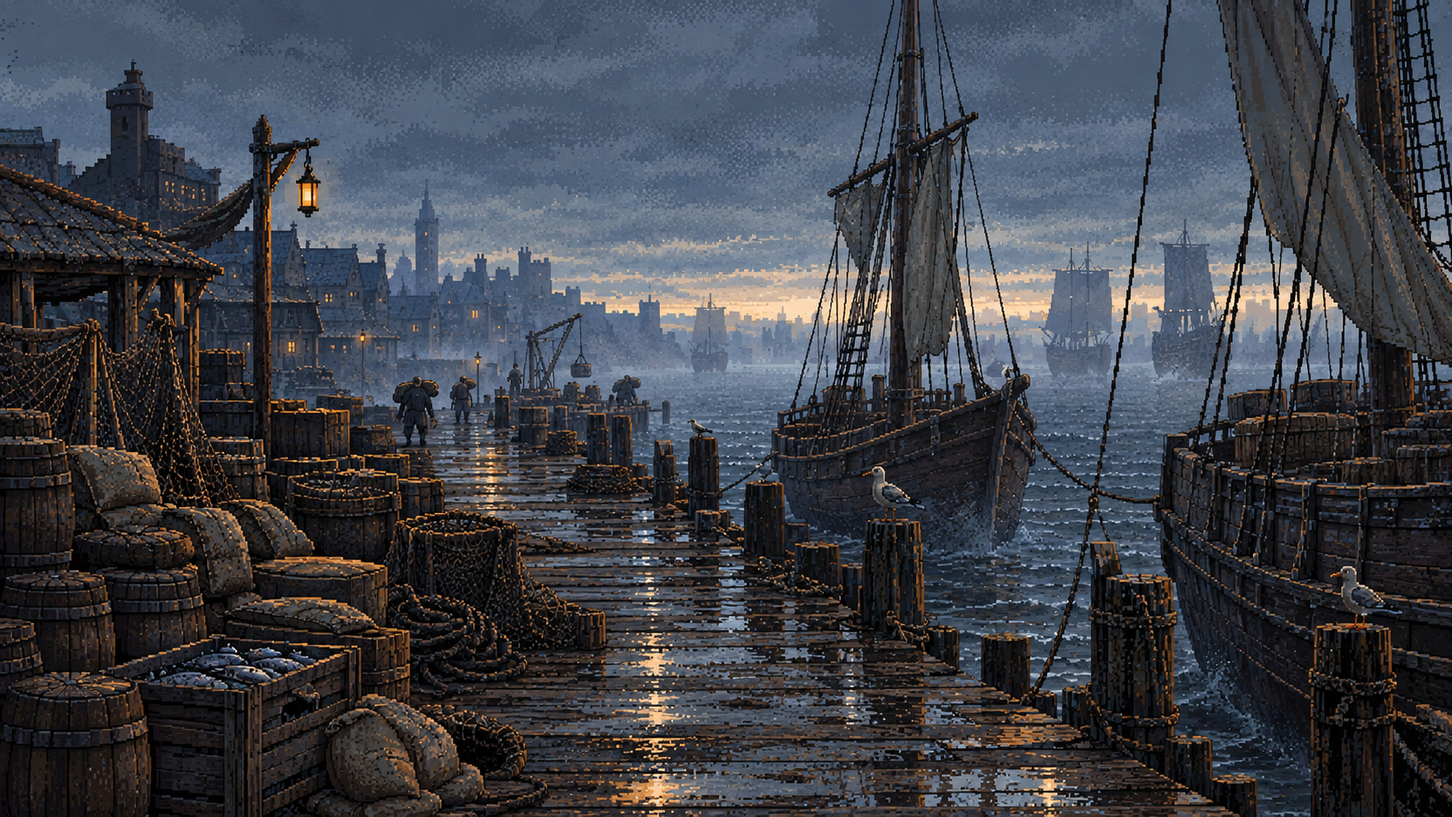
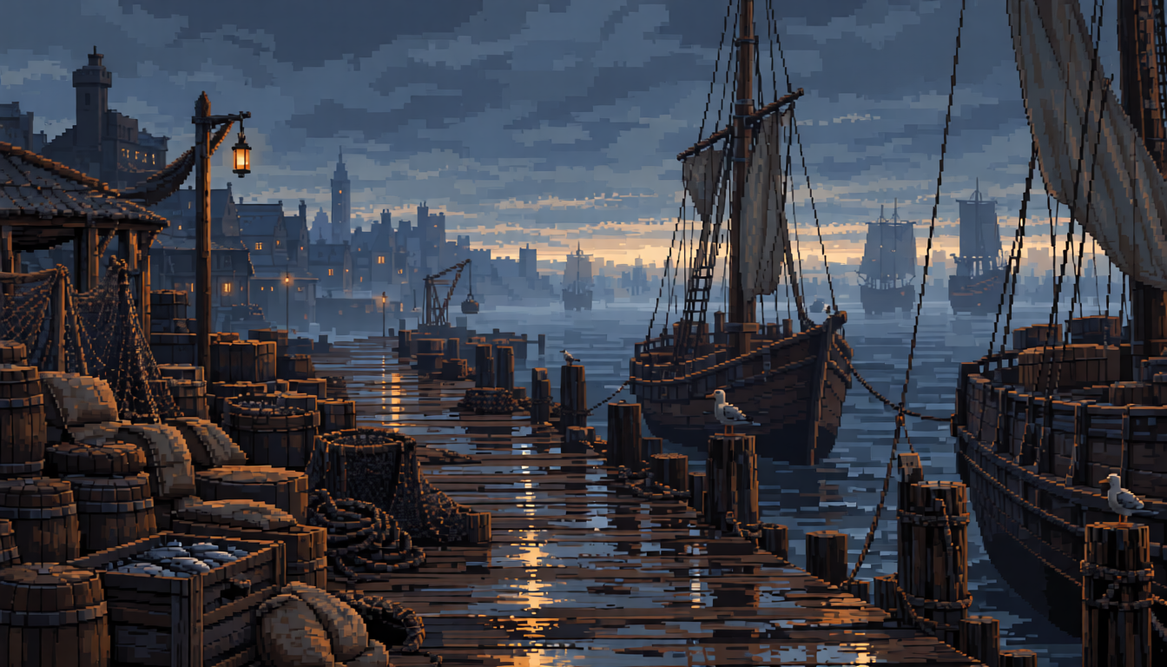
Add work illustrations and replace pier with author-selected artwork

diff --git a/Игры/Порт/Источники_Арта/Работы/галерея.html b/Игры/Порт/Источники_Арта/Работы/галерея.html
@@ -1,0 +1,1 @@
+<!doctype html><html lang="ru"><meta charset="utf-8"><meta name="viewport" content="width=device-width,initial-scale=1"><title>Порт — изображения работ</title><style>body{margin:0;background:#171d25;color:#ded8ca;font:16px/1.6 system-ui,sans-serif}main{max-width:1500px;margin:auto;padding:24px}h1{font-size:28px}p{color:#abb1b8}.grid{display:grid;grid-template-columns:repeat(auto-fit,minmax(min(100%,480px),1fr));gap:24px}figure{margin:0;background:#222b35;border:1px solid #44505d}img{display:block;width:100%;height:auto}figcaption{padding:12px 16px}a{color:#e9bc77}small{color:#abb1b8}</style><main><h1>Порт — десять работ</h1><p>На просмотр автора · 05.10.2026 · Одвин и его руки вне кадра. Нажми на изображение, чтобы открыть оригинал.</p><div class="grid"><figure><a href="разгрузка.png"><img src="разгрузка.png" alt="Разгрузка" loading="lazy"></a><figcaption>1. Разгрузка</figcaption></figure><figure><a href="весы.png"><img src="весы.png" alt="Подсчёт у весов" loading="lazy"></a><figcaption>2. Подсчёт у весов</figcaption></figure><figure><a href="разноска.png"><img src="разноска.png" alt="Разноска на рынке" loading="lazy"></a><figcaption>3. Разноска на рынке</figcaption></figure><figure><a href="чтец.png"><img src="чтец.png" alt="Чтец у ворот" loading="lazy"></a><figcaption>4. Чтец у ворот</figcaption></figure><figure><a href="баня.png"><img src="баня.png" alt="Подсобить в бане" loading="lazy"></a><figcaption>5. Подсобить в бане</figcaption></figure><figure><a href="кухня.png"><img src="кухня.png" alt="Кухня «Синего часа»" loading="lazy"></a><figcaption>6. Кухня «Синего часа»</figcaption></figure><figure><a href="охрана.png"><img src="охрана.png" alt="Охрана в таверне" loading="lazy"></a><figcaption>7. Охрана в таверне</figcaption></figure><figure><a href="бой.png"><img src="бой.png" alt="Выйти на круг" loading="lazy"></a><figcaption>8. Выйти на круг</figcaption></figure><figure><a href="наколки.png"><img src="наколки.png" alt="Наколки по заказам" loading="lazy"></a><figcaption>9. Наколки по заказам</figcaption></figure><figure><a href="маяк.png"><img src="маяк.png" alt="Смена на маяке" loading="lazy"></a><figcaption>10. Смена на маяке</figcaption></figure></div><p><a href="../../Документы/Арт/Промты/18_Порт_работы_без_Одвина.md">Самостоятельные промты</a> · <a href="генерации.json">Точные задания генерации</a></p></main></html>

diff --git a/Игры/Порт/Документы/Арт/Промты/18_Порт_работы_без_Одвина.md b/Игры/Порт/Документы/Арт/Промты/18_Порт_работы_без_Одвина.md
@@ -1,6 +1,6 @@
 # Работы Порта — самостоятельные промты без Одвина в кадре
 
-Подготовлено 05.10.2026. Только промты для обсуждения и генерации в выбранном автором ИИ. Изображения по этому комплекту не создавались и к игре не подключались.
+Подготовлено 05.10.2026. Только промты для обсуждения и генерации в выбранном автором ИИ. 05.10.2026 по комплекту создано десять изображений в `Источники_Арта/Работы/`; они доступны для просмотра, к игре не подключены.
 
 Десять работ взяты из текущего реестра `Данные/работы.js`. «Поручение Локи» отключено и в комплект не входит. Кухня включена: работа действующая, но открывается по ходу игры.
 
@@ -16,7 +16,7 @@
 
 Прочитаны существующие промты 09, 10, 14, 17 и каталог самостоятельных промтов. Изображения просмотрены: эталон Трущоб, две пристани, торговая площадь, торговый район, баня, кухня «Синего часа», портовая таверна, заготовки двора Горма и комнаты маяка, комната с общим столом. Последняя не использована: отдельную комнату не следует выдавать за установленную мастерскую наколок. Старые слова «мрачный исторический реализм» из ранних промтов не перенесены; выбран позднее установленный «спокойный пиксель».
 
-Изображения пристани заметно дробнее эталона: они задают только устройство места. Заготовки двора Горма и нижней комнаты маяка находятся в `Источники_Арта`; это визуальные ориентиры, не утверждение их устройства как канона. Специальных изображений рабочего места весов, чтеца и мастера наколок не найдено.
+05.10.2026 автор заменил `порт-пристань-1.png` более спокойной пиксельной версией из FLEXY. Этот референс задаёт устройство причала и крупные цветовые массы; общий эталон техники остаётся `трущобы.webp`. Прежняя пристань сохранена в `Источники_Арта/Альтернативы/порт-пристань-1-до-05-10-2026.png`. Заготовки двора Горма и нижней комнаты маяка находятся в `Источники_Арта`; это визуальные ориентиры, не утверждение их устройства как канона. Специальных изображений рабочего места весов, чтеца и мастера наколок не найдено.
 
 ## 1. Разгрузка
 
@@ -26,14 +26,14 @@
 
 **Референс 2 — место:** [порт-пристань-1.png](<D:/AI/kordim/Игры/Порт/Ресурсы/Места/порт-пристань-1.png>).
 
-**Роль второго референса:** Устройство грузового причала: мокрый настил, рабочие навесы, бочки и пришвартованные деревянные суда. Не переносить дробную текстуру, башни дальнего плана и фигуры грузчиков; технику брать из первого референса.
+**Роль второго референса:** Устройство грузового причала: мокрый настил, рабочие навесы, бочки и пришвартованные деревянные суда. Новая версия также задаёт крупные цветовые массы. Башни дальнего плана не переносить; общий эталон техники — первый референс.
 
-**Копировать целиком — 1414 знаков:**
+**Копировать целиком — 1412 знаков:**
 
 ```text
 Игровая иллюстрация 16:9, без рамки. Порт Теней, северный средневековый порт, около 1026 года, ранняя осень. Реальная физика, спокойная человеческая жизнь. «Спокойный пиксель»: сетка шириной 320 пикселей, увеличение ближайшим соседом, единые квадратные блоки плоского цвета, ступенчатый свет и редкий дизеринг. Около 24 приглушённых серо-синих и коричневых цветов с янтарными акцентами. Крупные формы, треть кадра спокойная; без мелкой текстуры, размытия, живописной растушёвки и чёрного контура.
 
-Если приложен «трущобы.webp», бери только технику пикселя, палитру и крупность форм, не улицу и время суток. «порт-пристань-1.png» задаёт причал, навесы и суда; не копируй дробную текстуру, дальние башни и людей. Без вложений следуй описанию.
+Если приложен «трущобы.webp», бери только технику пикселя, палитру и крупность форм, не улицу и время суток. «порт-пристань-1.png» задаёт причал, навесы, суда и крупные цветовые массы; не копируй дальние башни. Без вложений следуй описанию.
 
 Раннее утро. Камера с палубы низкой грузовой баржи, взгляд слегка вниз к причалу. Перед зрителем крупный завязанный мешок лежит на устойчивом борту у начала широких коротких сходней. Сходни ведут на мокрый настил к бочкам под складским навесом. Слева спокойная вода, вдали склады силуэтами. Холодный рассеянный свет, лёгкая дымка, один тёплый фонарь. Главное — близкий груз и путь его переноса, а не панорама порта. Людей нет; мешок не парит.
 
@@ -48,14 +48,14 @@
 
 **Референс 2 — место:** [порт-пристань-1.png](<D:/AI/kordim/Игры/Порт/Ресурсы/Места/порт-пристань-1.png>).
 
-**Роль второго референса:** Только окружение портовых весов: складской навес, причал, бочки и вода. Самого рабочего места весов на этом референсе нет; его создать по описанию. Не переносить мелкую текстуру.
+**Роль второго референса:** Окружение портовых весов: складской навес, причал, бочки и вода, крупные цветовые массы. Самого рабочего места весов на референсе нет; его создать по описанию.
 
-**Копировать целиком — 1441 знаков:**
+**Копировать целиком — 1439 знаков:**
 
 ```text
 Игровая иллюстрация 16:9, без рамки. Порт Теней, северный средневековый порт, около 1026 года, ранняя осень. Реальная физика, спокойная человеческая жизнь. «Спокойный пиксель»: сетка шириной 320 пикселей, увеличение ближайшим соседом, единые квадратные блоки плоского цвета, ступенчатый свет и редкий дизеринг. Около 24 приглушённых серо-синих и коричневых цветов с янтарными акцентами. Крупные формы, треть кадра спокойная; без мелкой текстуры, размытия, живописной растушёвки и чёрного контура.
 
-Если приложен «трущобы.webp», бери только технику пикселя, палитру и крупность форм, не улицу и время суток. «порт-пристань-1.png» задаёт только доковое окружение, не мелкую текстуру; рабочее место весов создай по описанию. Без вложений следуй описанию.
+Если приложен «трущобы.webp», бери только технику пикселя, палитру и крупность форм, не улицу и время суток. «порт-пристань-1.png» задаёт доковое окружение и крупные цветовые массы; рабочее место весов создай по описанию. Без вложений следуй описанию.
 
 Утро или день. Камера с места сидящего учётчика под навесом грузового причала. На столе перед зрителем раскрытая ведомость с нечитаемыми штрихами, рядом лежащее перо и чернильница. За столом крупные ручные грузовые весы: деревянная опора, коромысло, платформа с бочкой и противовесы. Сбоку видны вода и край склада. Холодный дневной свет, тёплое дерево. Главное — запись веса и взвешиваемая бочка. Не аптечные весы; без современной шкалы, автоматики и людей.
 

diff --git a/Игры/Порт/Документы/АРТ_РЕЕСТР.md b/Игры/Порт/Документы/АРТ_РЕЕСТР.md
@@ -55,3 +55,11 @@
 Восьми новым местам потребуются отдельные интерьерные виды или качественные общие фоны комнат после утверждения их сцен. Портреты рисуются только для одобренных новых NPC. Готовые изображения Кука, Нотариуса и Марны не подменяют автоматически их игровой вид; приёмная Нотариуса показывает перегородку, не раскрывая канонически неизвестное лицо.
 
 **Кандидатный комплект создан 30.09:** `Источники_Арта/Районы/карта-девять-кварталов-кандидат.png` и пять видов с теми же названиями кварталов и суффиксом `-кандидат.png`. Все шесть кадров — 1672 × 941. Карта сохраняет прежние узнаваемые ориентиры и добавляет рыбный сход, Управный двор, жилые дома, ворота и мастерские. Виды Рыбацкого берега и Ремесленных дворов различаются по труду и масштабу судов. Это рабочие картинки, **ещё не подключённые к игре и не утверждённые автором**. Перед переносом в `Ресурсы/` проверить, как девять меток ложатся на готовый кадр, как фон выглядит в 180-пиксельной полосе и насколько ровно новый пиксельный стиль сочетается с существующими видами. Исходные промты — `Арт/Промты/17_Порт_девять_кварталов.md`.
+
+## Пристань — замена 05.10.2026
+
+По выбору автора `Ресурсы/Места/порт-пристань-1.png` заменён изображением `FLEXY – Image 05-10-2026 00-08-35.png`: тот же вид причала с более крупными цветовыми массами и меньшей мелкой рябью. Прежний файл сохранён без изменений в `Источники_Арта/Альтернативы/порт-пристань-1-до-05-10-2026.png`. Имя ресурса и ссылки остаются прежними; описания референса в промтах работ обновлены.
+
+## Работы — комплект 05.10.2026
+
+В `Источники_Арта/Работы/` сохранены десять изображений: тестовая разгрузка и девять остальных действующих работ. Созданы встроенным image_gen по самостоятельным промтам `Арт/Промты/18_Порт_работы_без_Одвина.md` с указанными референсами; Одвин и его руки вне кадра. Для бани исправлен веник на уборочную щётку, для наколок автор выбрал первый вариант с кистью клиента, отвергнув слишком длинное предплечье после правки. Точные задания и референсы — `генерации.json`, просмотр комплекта — `галерея.html`. **Статус: на просмотр автора, к экранам смен не подключены.**

diff --git a/Игры/Порт/Источники_Арта/Работы/README.md b/Игры/Порт/Источники_Арта/Работы/README.md
@@ -1,0 +1,16 @@
+# Работы — комплект изображений без Одвина
+
+Создано 05.10.2026 встроенным image_gen. Десять кадров: тестовая разгрузка и девять оставшихся работ. Статус: **на просмотр автора, к игре не подключено**. Исходные самостоятельные промты: `../../Документы/Арт/Промты/18_Порт_работы_без_Одвина.md`; точные задания и референсы сохранены в `генерации.json`. Для бани дополнительно заменён ошибочно нарисованный веник на щётку; для наколок автор выбрал первый вариант с кистью клиента, поскольку после правки предплечье стало неестественно длинным. Отклонённый вариант сохранён в `Варианты/`.
+
+Для просмотра всех изображений открыть `галерея.html` обычным браузером; каждый кадр открывается отдельно по нажатию.
+
+- [Разгрузка](разгрузка.png)
+- [Подсчёт у весов](весы.png)
+- [Разноска на рынке](разноска.png)
+- [Чтец у ворот](чтец.png)
+- [Подсобить в бане](баня.png)
+- [Кухня «Синего часа»](кухня.png)
+- [Охрана в таверне](охрана.png)
+- [Выйти на круг](бой.png)
+- [Наколки по заказам](наколки.png)
+- [Смена на маяке](маяк.png)

diff --git a/Игры/Порт/Ресурсы/КАТАЛОГ_изображений.md b/Игры/Порт/Ресурсы/КАТАЛОГ_изображений.md
@@ -4,7 +4,8 @@
 
 ## Места
 
-- `Места/порт-пристань-1.png`, `Места/порт-пристань-2.png` — два варианта вида на порт.
+- `Места/порт-пристань-1.png` — выбранная автором 05.10.2026 спокойная пиксельная версия пристани из FLEXY; прежний файл сохранён в `Источники_Арта/Альтернативы/порт-пристань-1-до-05-10-2026.png`.
+- `Места/порт-пристань-2.png` — дополнительный вариант вида на порт.
 - `Места/порт-контора-внутри.png` — тёмная контора с окном.
 - `Места/порт-подземный-проход.png` — подземный проход.
 - `Места/порт-двор-складской.png` — замкнутый двор у складских стен.

diff --git a/Игры/Сайт/Игра/Порт/Ресурсы/КАТАЛОГ_изображений.md b/Игры/Сайт/Игра/Порт/Ресурсы/КАТАЛОГ_изображений.md
@@ -4,7 +4,8 @@
 
 ## Места
 
-- `Места/порт-пристань-1.png`, `Места/порт-пристань-2.png` — два варианта вида на порт.
+- `Места/порт-пристань-1.png` — выбранная автором 05.10.2026 спокойная пиксельная версия пристани из FLEXY; прежний файл сохранён в `Источники_Арта/Альтернативы/порт-пристань-1-до-05-10-2026.png`.
+- `Места/порт-пристань-2.png` — дополнительный вариант вида на порт.
 - `Места/порт-контора-внутри.png` — тёмная контора с окном.
 - `Места/порт-подземный-проход.png` — подземный проход.
 - `Места/порт-двор-складской.png` — замкнутый двор у складских стен.
